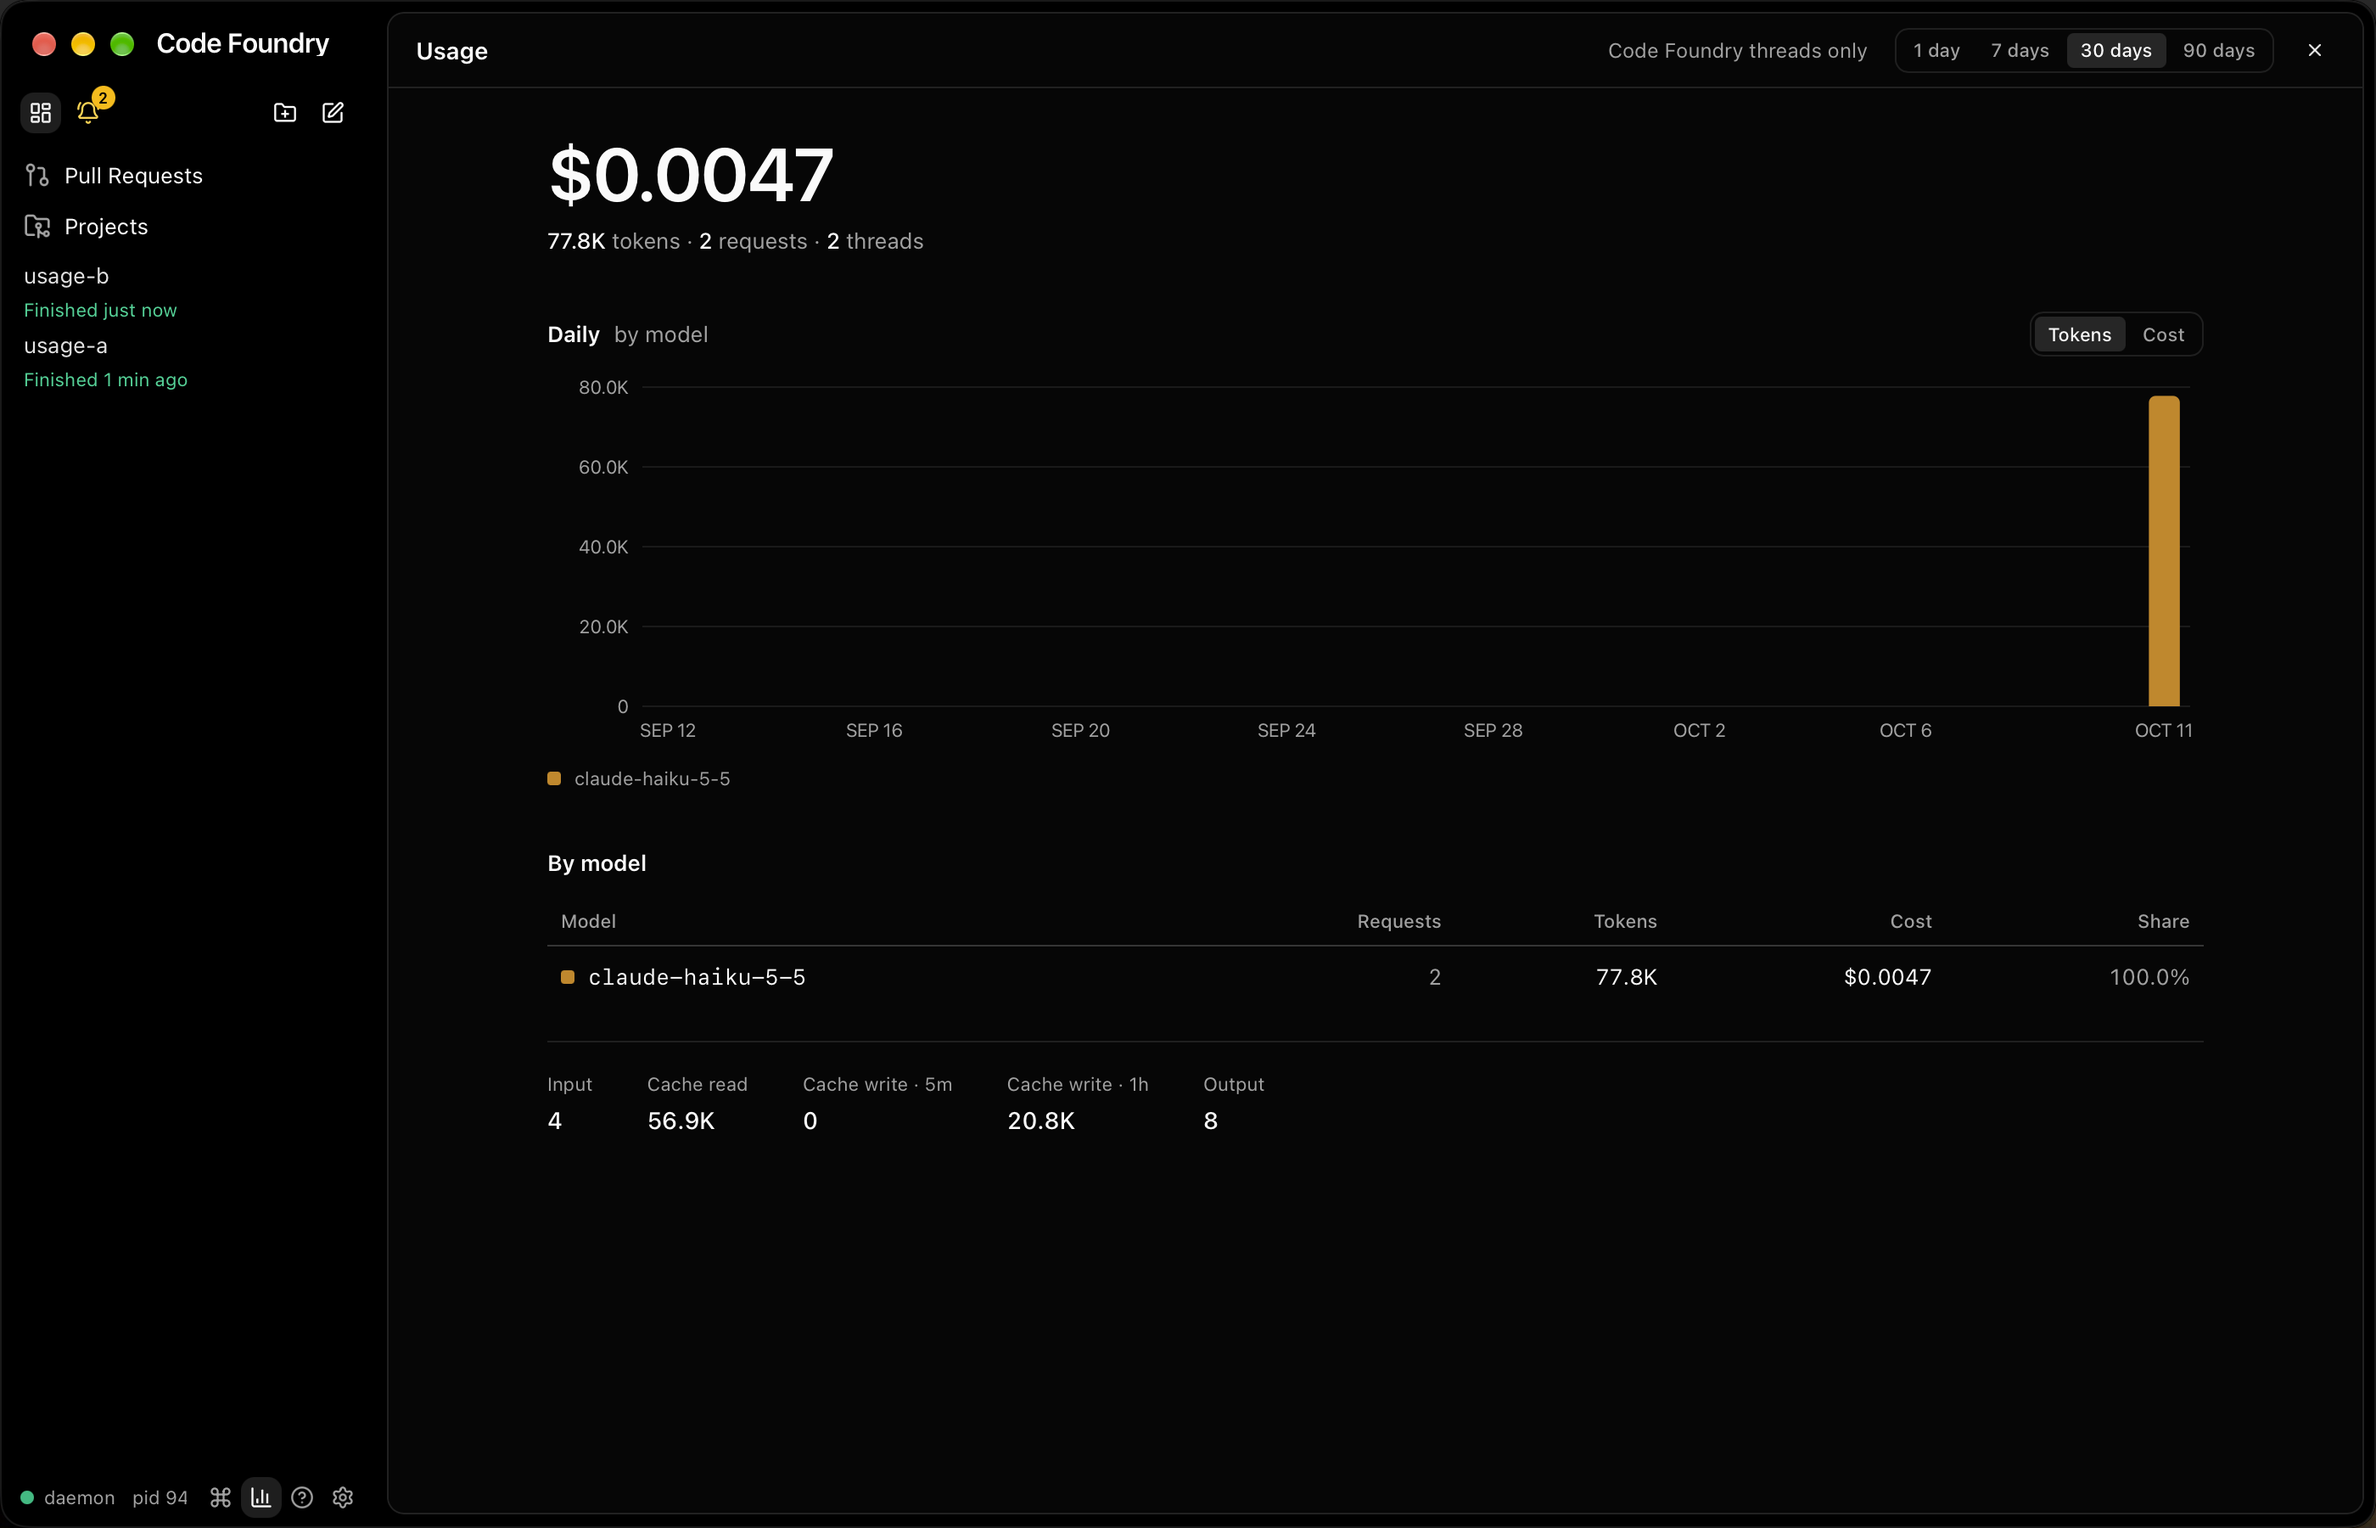
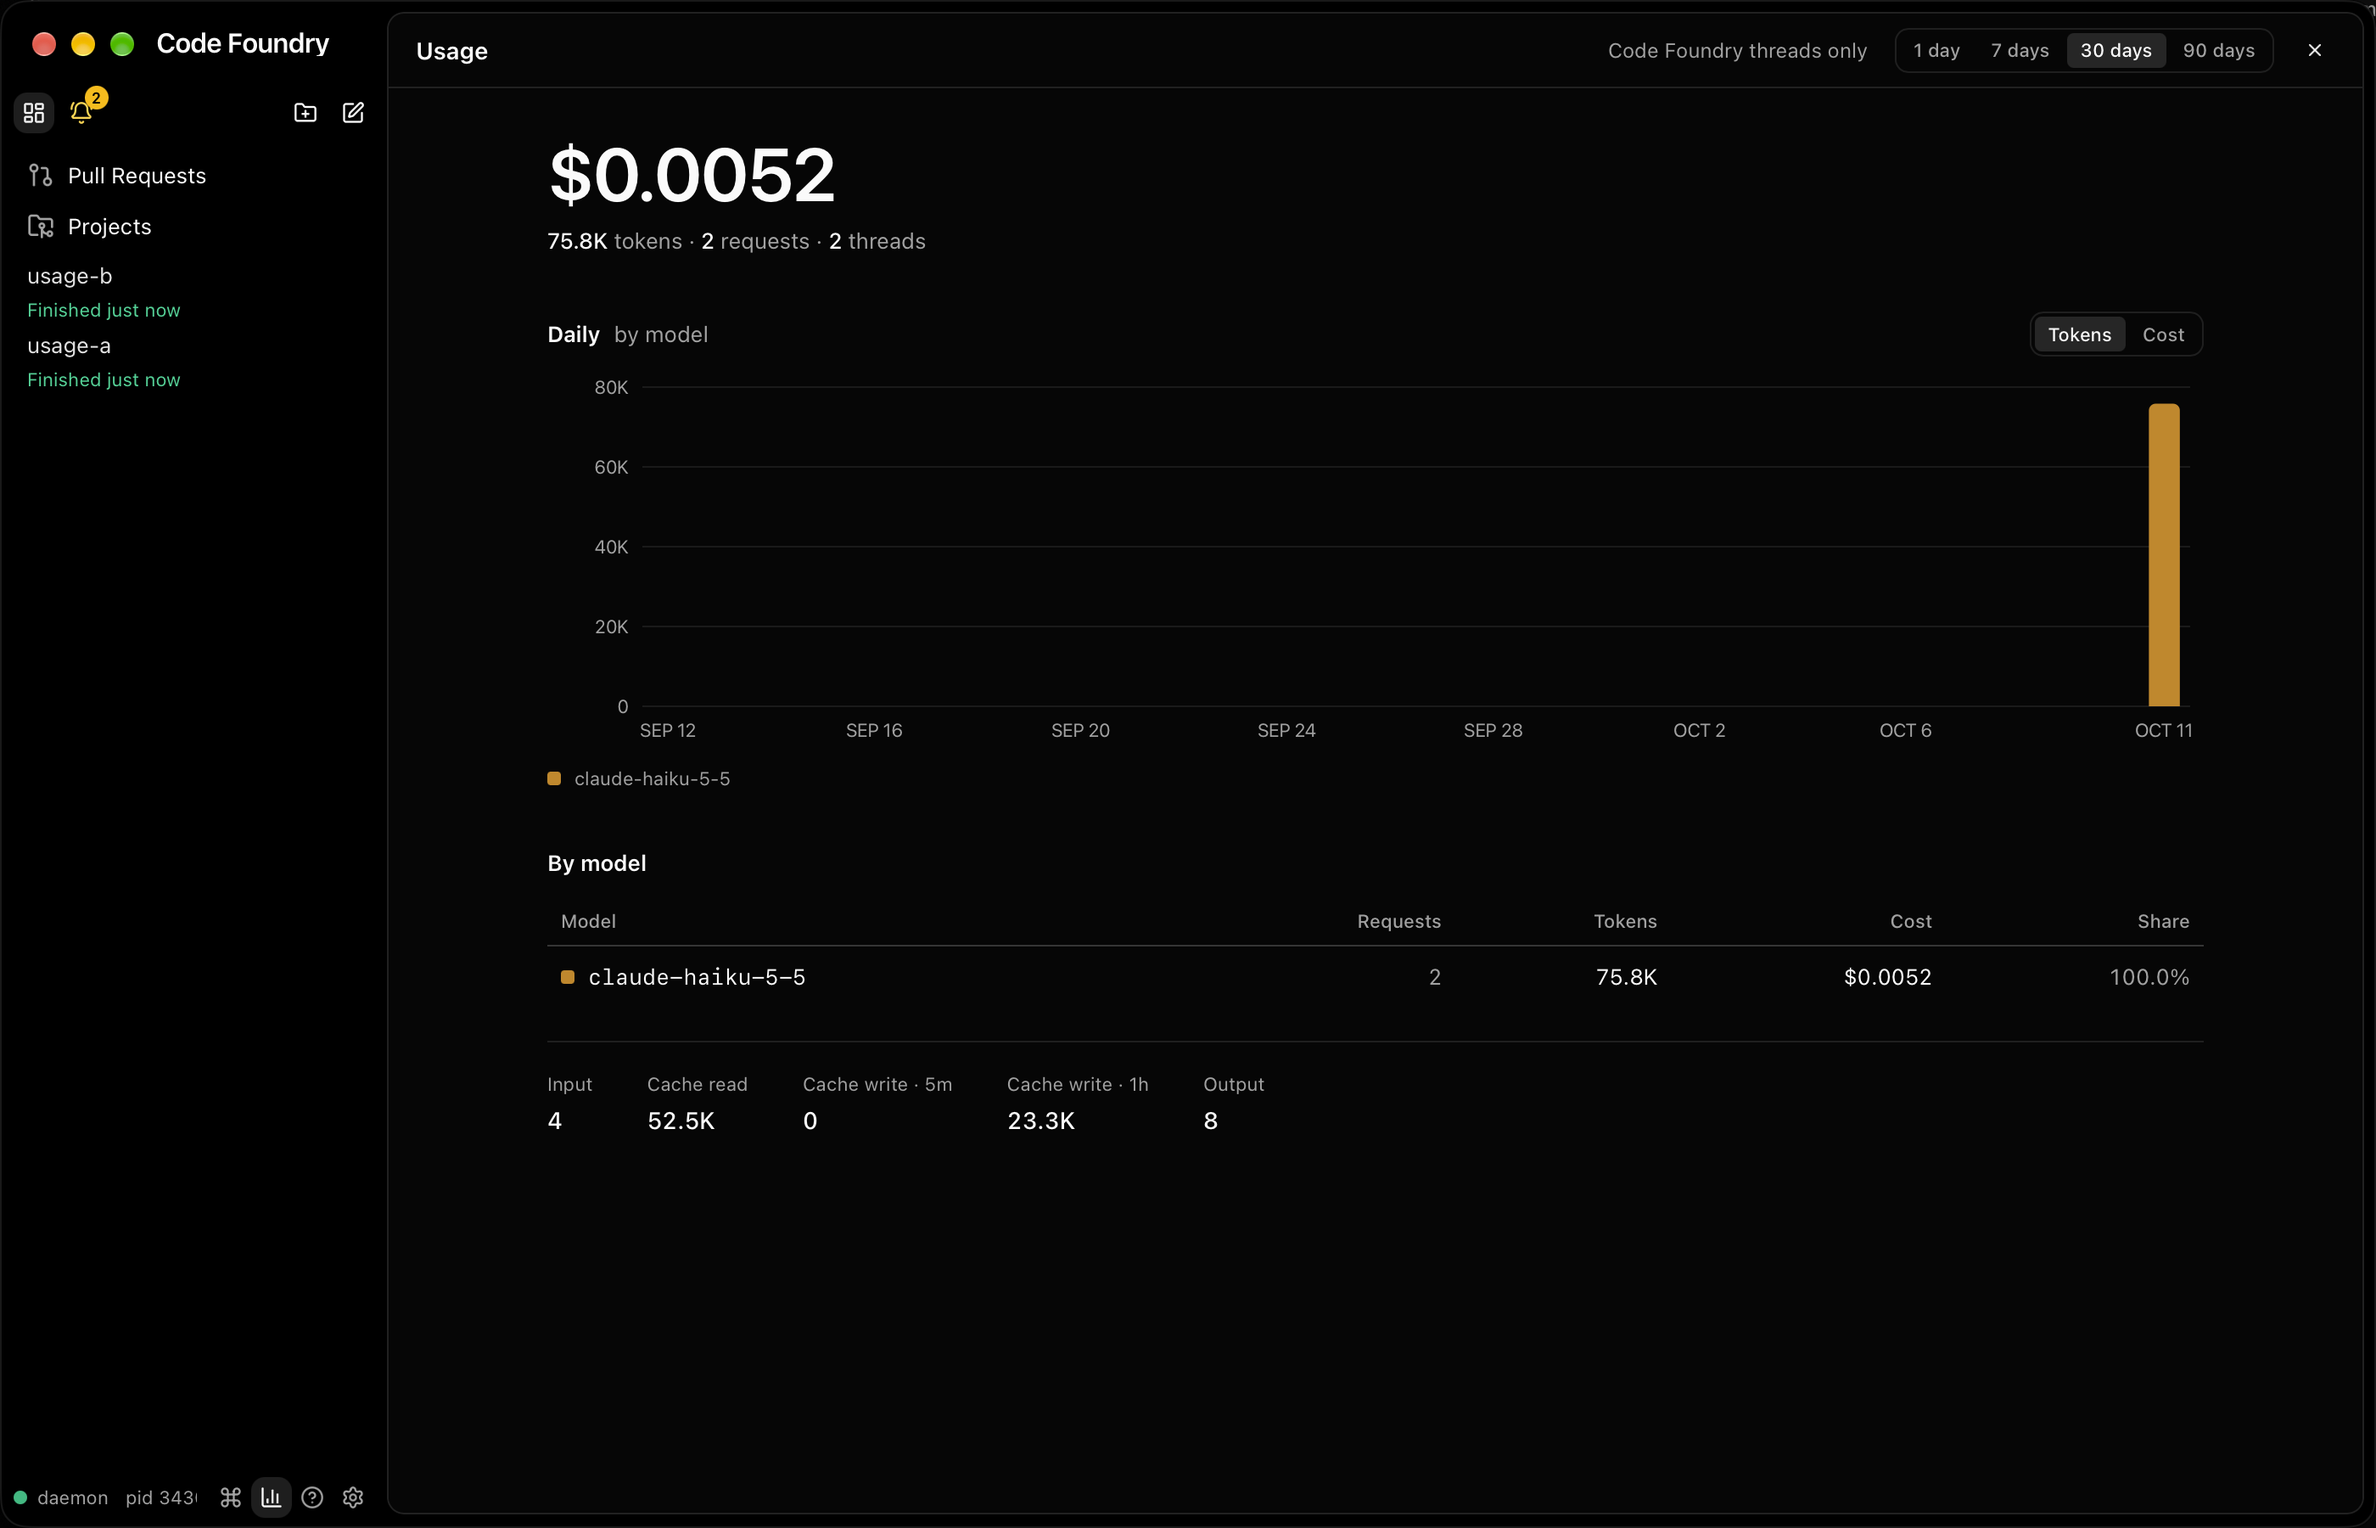
docs: Usage page screenshots retaken after merging PR 3; note figures

diff --git a/docs/notes/session-usage.md b/docs/notes/session-usage.md
@@ -367,13 +367,16 @@ CLI path toggling, range filter and reload persistence, Tokens/Cost and the tool
 Live screenshots, real Wails window at 1400x900: `make build && make gui-build`, daemon
 in `CODE_FOUNDRY_HOME=/tmp/cf-usage4-home`, a scratch git repo under the worktree's
 `.scratch/` (home-only paths), two haiku threads prompted "reply with the word ok"
-(`code-foundry usage`: 2 requests · 77.8K tokens · $0.0047). The GUI started with
-`code-foundry gui` and the same home; the window raised by unix id; the status-row button
-clicked with a CGEvent mouse click (JXA; AppleScript's `click at` does not reach the web
-view); `screencapture -R` of the window. Theme switched with `settings set
-appearance.theme light`. A second click on the button closed the page. Afterwards both
-threads removed (usage moved to the retired ledger: `All threads (0 + removed): 2
-requests · 77.8K tokens · $0.0047`), daemon stopped, home and scratch repo deleted.
+(`code-foundry usage`: 2 requests · 75.8K tokens · $0.0052). The GUI started with
+`code-foundry gui` and the same home; the window raised, moved and sized by unix id
+through System Events (it resolved to ours this time; see PR 3's gotcha above); the
+status-row button clicked with a CGEvent mouse click (JXA; AppleScript's `click at` does
+not reach the web view); `screencapture -R` of the window. Theme switched with `settings
+set appearance.theme light`. Afterwards both threads removed (usage moved to the retired
+ledger: `All threads (0 + removed): 2 requests · 75.8K tokens · $0.0052`), daemon
+stopped, home and scratch repo deleted. The shots were retaken after merging PR 3 (shared
+`fmtTok`: the axis reads "80K", not "80.0K"; main's sidebar gutter). Before the merge, a
+second click on the button closed the page live.
 
 * `session-usage/page-dark.png`: tokens, dark.
 * `session-usage/page-cost.png`: cost, dark, hovering today's bar.
